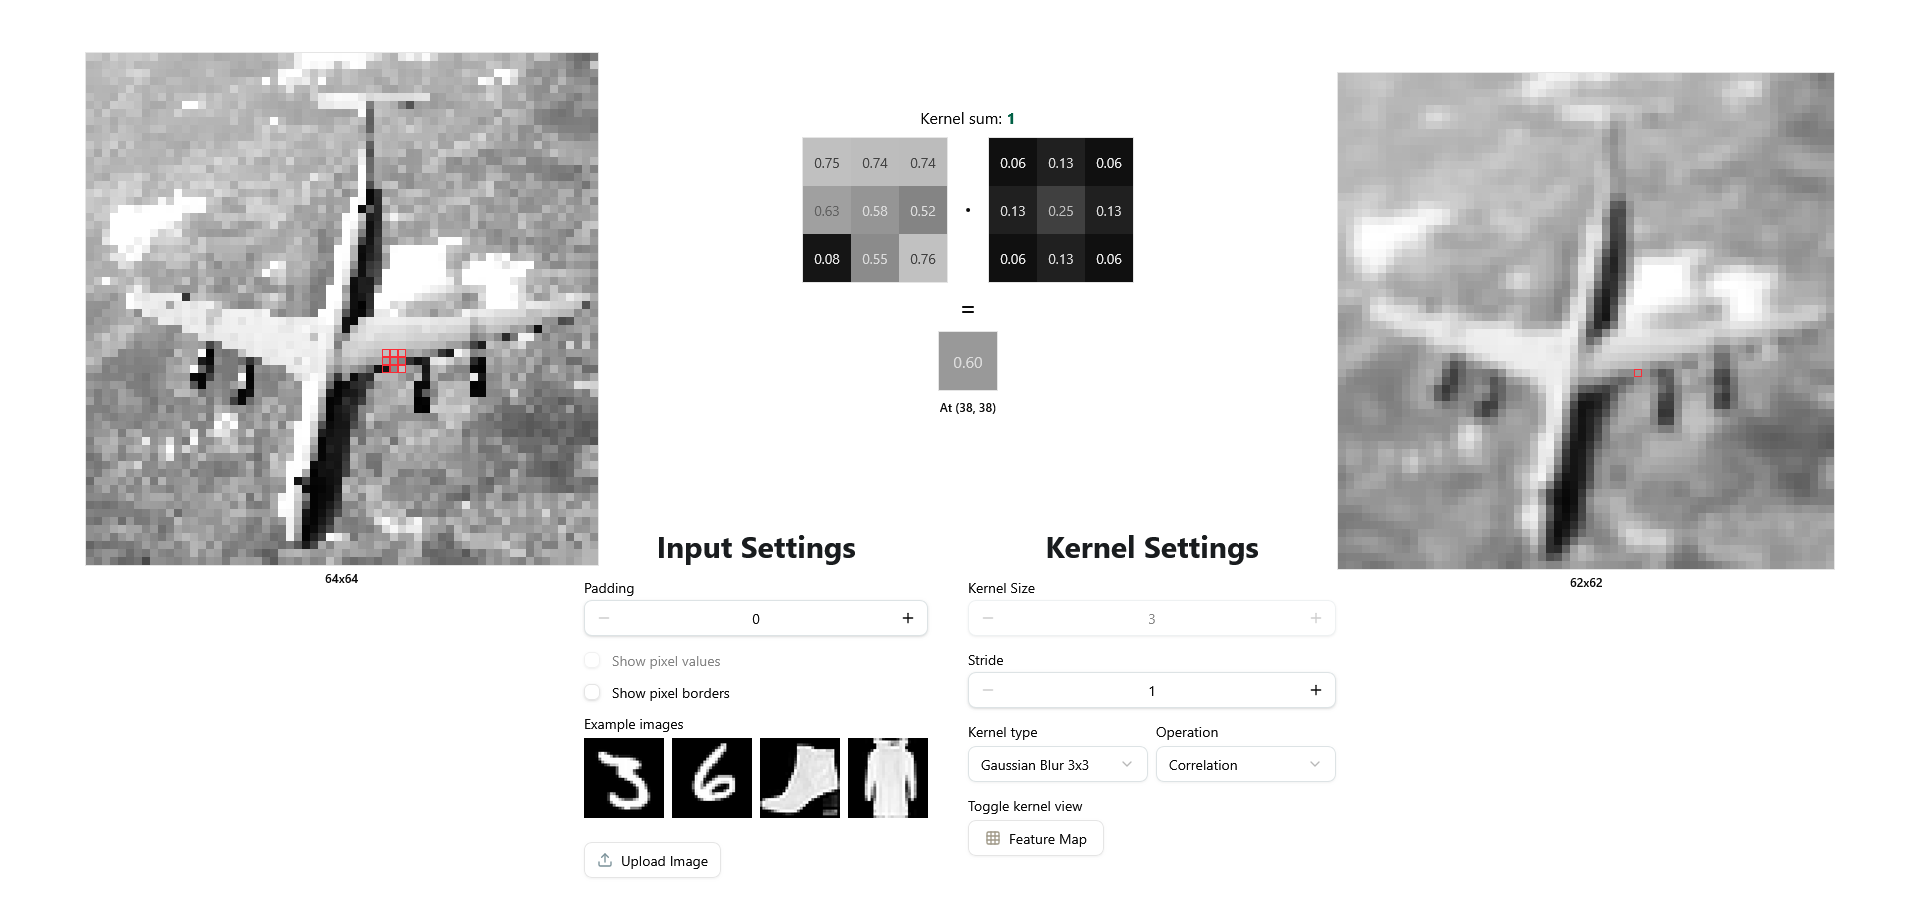
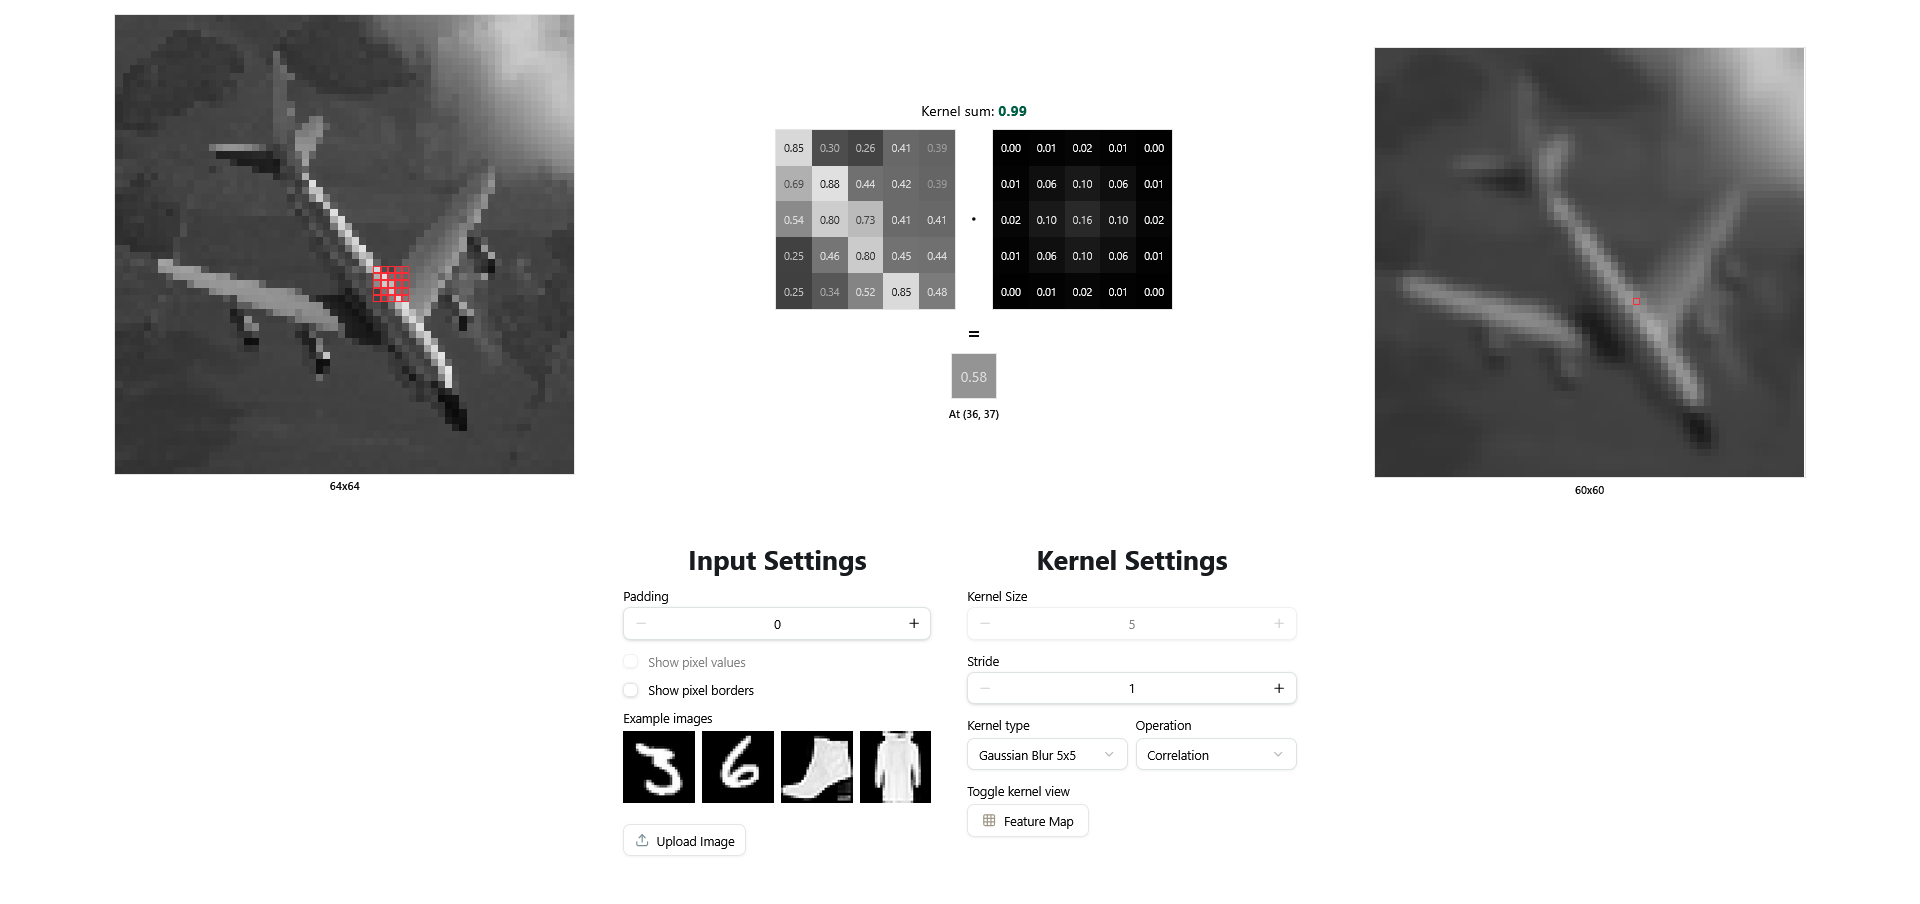
chore: update styles & github demo asset

diff --git a/src/components/Settings/ImageSettings.vue b/src/components/Settings/ImageSettings.vue
@@ -23,7 +23,7 @@ const visualsStore = useVisualsStore()
 
   <div class="space-y-4">
       <h3 class="text-center text-3xl font-bold text-carbon">Input Settings</h3>
-      <NumberField id="padding" :default-value="0" :min="0" :max="5" :model-value="conv2dStore.padding">
+      <NumberField id="padding" :default-value="0" :min="0" :max="7" :model-value="conv2dStore.padding">
         <Label for="padding">Padding</Label>
         <NumberFieldContent>
           <NumberFieldDecrement @click="conv2dStore.decrementPadding()" />

diff --git a/src/components/InputFrame.vue b/src/components/InputFrame.vue
@@ -7,7 +7,7 @@ import KernelView from './Kernel/KernelView.vue';
 </script>
 
 <template>
-  <div class="flex flex-col items-center space-y-10 md:flex-row md:justify-around md:mt-4 md:min-h-128 md:min-w-285">
+  <div class="flex flex-col items-center space-y-10 md:flex-row md:justify-around md:p-4 md:min-h-128 md:min-w-285">
     <div class="flex items-center justify-center">
       <PixelsMatrix />
     </div>

diff --git a/src/components/OutputMatrix/OutputMatrix.vue b/src/components/OutputMatrix/OutputMatrix.vue
@@ -29,7 +29,7 @@ const checkHighlightPixel = (i: number, j: number) => {
 </script>
 
 <template>
-  <div class="md:h-100">
+  <div>
     <div class="border">
       <div v-for="i in conv2dstore.output.height" v-bind:key="i" class="flex">
         <OutputPixel v-for="j in conv2dstore.output.height" v-bind:key="i * conv2dstore.output.height + j"

diff --git a/src/utils/pixelSize.ts b/src/utils/pixelSize.ts
@@ -18,10 +18,10 @@ export default function getPixelSize(width: number, height: number) {
   if (width > 24) {
     sizeRound = 24
   }
-  if (width >= 32) {
+  if (width >= 30) {
     sizeRound = 32
   }
-  if (width >= 42) {
+  if (width >= 38) {
     sizeRound = 64
   }
   const pixelSizeMap: { [key: number]: string } = {

diff --git a/src/components/PixelsMatrix/PixelsMatrix.vue b/src/components/PixelsMatrix/PixelsMatrix.vue
@@ -61,7 +61,7 @@
 </script>
 
 <template>
-  <div class="md:h-100">
+  <div>
     <div class="border">
       <div v-for="i in height" v-bind:key="-i" class="flex">
         <PixelItem v-for="j in width" v-bind:key="i * height + j"
